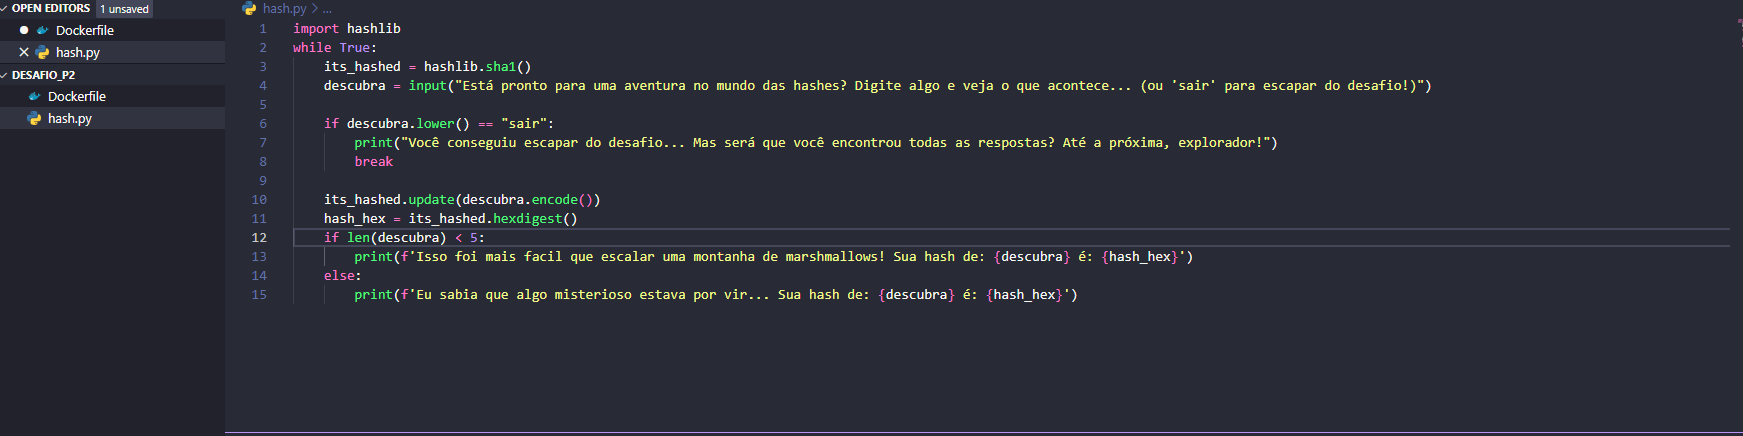
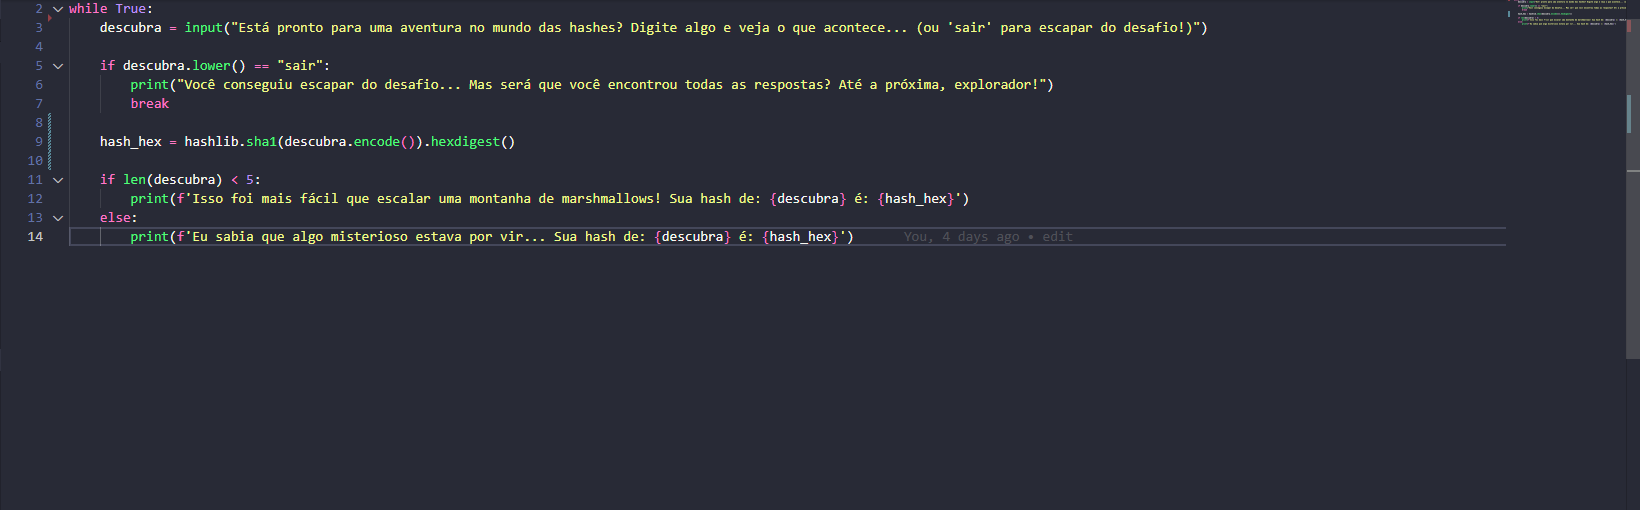
editfinish

diff --git a/Sprint_4/Desafio/Desafio_p2/hash.py b/Sprint_4/Desafio/Desafio_p2/hash.py
@@ -1,14 +1,13 @@
 import hashlib
 while True:
-    its_hashed = hashlib.sha1()
     descubra = input("Está pronto para uma aventura no mundo das hashes? Digite algo e veja o que acontece... (ou 'sair' para escapar do desafio!)")
     
     if descubra.lower() == "sair":
         print("Você conseguiu escapar do desafio... Mas será que você encontrou todas as respostas? Até a próxima, explorador!")
         break
-
-    its_hashed.update(descubra.encode())
-    hash_hex = its_hashed.hexdigest()
+    
+    hash_hex = hashlib.sha1(descubra.encode()).hexdigest()
+    
     if len(descubra) < 5:
         print(f'Isso foi mais fácil que escalar uma montanha de marshmallows! Sua hash de: {descubra} é: {hash_hex}')
     else:
